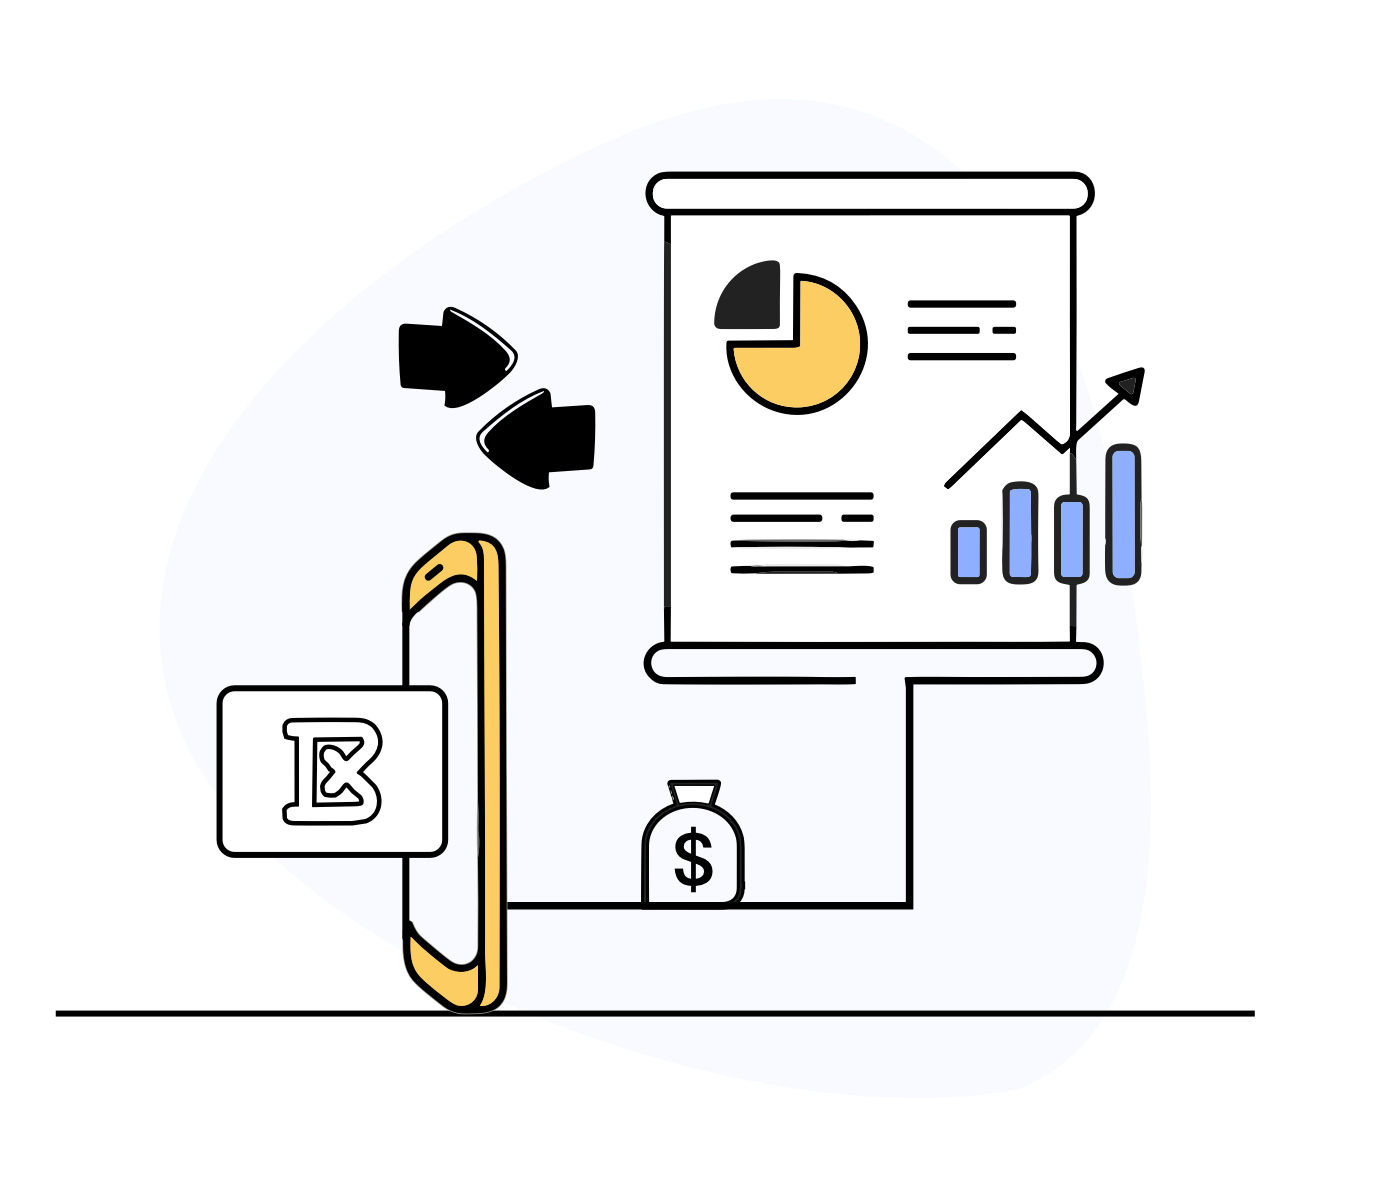
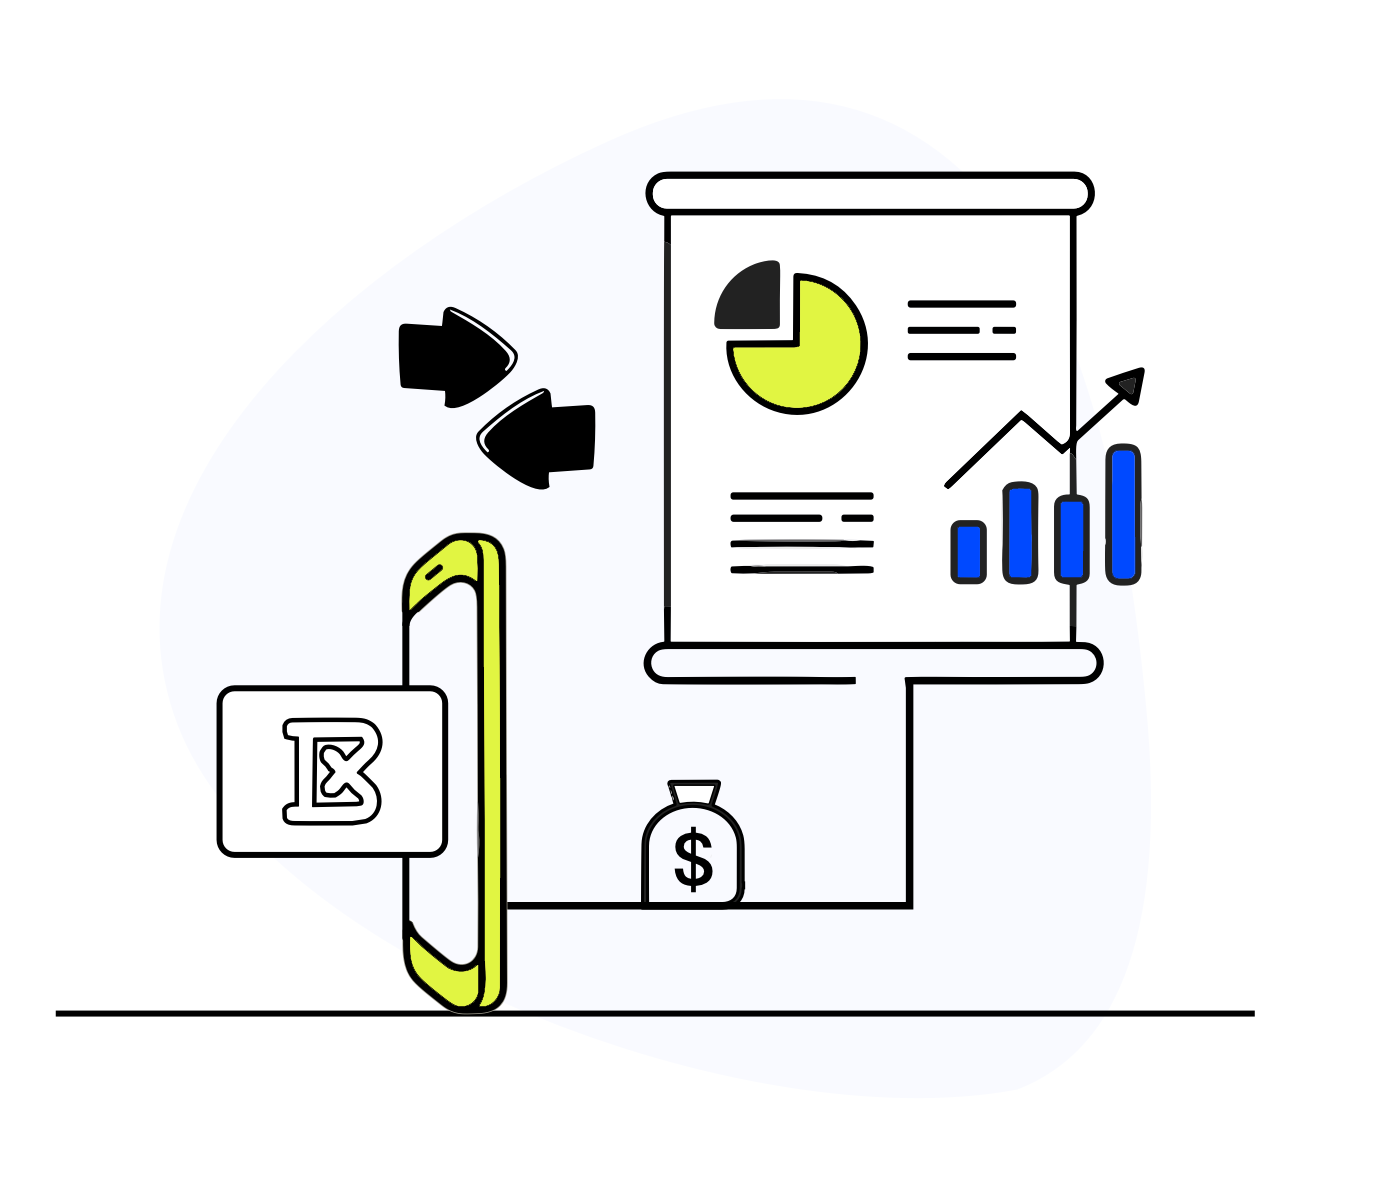
minor update

Changed region(s): [[0.2804, 0.4317, 0.3739, 0.8633], [0.6855, 0.37, 0.8413, 0.4933], [0.5297, 0.2158, 0.6232, 0.3392]]

diff --git a/src/Features.tsx b/src/Features.tsx
@@ -27,14 +27,14 @@ export const Features = () => {
             Swap your tokens with low slippage
           </Text>
           <Text mt={3}>
-            Basex's smart routing, deep liquidity, and latest AMM technology
+            BaseX's smart routing, deep liquidity, and latest AMM technology
             allow you to enjoy low slippage and high return when swapping one
             cryptocurrency for another.
           </Text>
           <Button
             mt={4}
             variant="unstyled"
-            color="blue.500"
+            color="#0049ff"
             _hover={{ color: "gray.800" }}
           >
             Swap Now
@@ -66,7 +66,7 @@ export const Features = () => {
           <Button
             mt={4}
             variant="unstyled"
-            color="blue.500"
+            color="#0049ff"
             _hover={{ color: "gray.800" }}
           >
             Start Staking
@@ -92,7 +92,7 @@ export const Features = () => {
             Liquidity layer for Base chain
           </Text>
           <Text mt={3}>
-            Basex was designed to onboard the next generation of protocols to
+            BaseX was designed to onboard the next generation of protocols to
             the Base chain by opening up a free market for BSX emissions.
             Protocols can bribe veBSX holders or acquire veBSX to redirect
             emissions to their pools, offering a flexible and capital efficient
@@ -101,7 +101,7 @@ export const Features = () => {
           <Button
             mt={4}
             variant="unstyled"
-            color="blue.500"
+            color="#0049ff"
             _hover={{ color: "gray.800" }}
           >
             Get Vote

diff --git a/src/Overview.tsx b/src/Overview.tsx
@@ -2,7 +2,12 @@ import { SimpleGrid, Flex, Text } from "@chakra-ui/react";
 
 export const Overview = () => {
   return (
-    <SimpleGrid columns={{ base: 1, md: 3 }} px={{ base: 4, md: 8, lg: 12 }} gap={6}>
+    <SimpleGrid
+      columns={{ base: 1, md: 3 }}
+      px={{ base: 4, md: 8, lg: 12 }}
+      gap={6}
+     
+    >
       <Flex
         flexDirection="column"
         alignItems="center"
@@ -14,7 +19,7 @@ export const Overview = () => {
         <Text fontWeight="bold" fontSize="3xl">
           $47,566,457
         </Text>
-        <Text color="gray.600">30 Day Volume</Text>
+        <Text>30 Day Volume</Text>
       </Flex>
       <Flex
         flexDirection="column"
@@ -27,7 +32,7 @@ export const Overview = () => {
         <Text fontWeight="bold" fontSize="3xl">
           $3,401,603
         </Text>
-        <Text color="gray.600">Total Value Locked</Text>
+        <Text>Total Value Locked</Text>
       </Flex>
       <Flex
         flexDirection="column"
@@ -41,7 +46,7 @@ export const Overview = () => {
         <Text fontWeight="bold" fontSize="3xl">
           24,176
         </Text>
-        <Text color="gray.600">24h Trades</Text>
+        <Text>24h Trades</Text>
       </Flex>
     </SimpleGrid>
   );

diff --git a/src/Hero.tsx b/src/Hero.tsx
@@ -25,16 +25,16 @@ export const Hero = () => {
       >
         <Text fontSize={{ base: "4xl", md: "5xl" }} fontWeight={500}>
           Making your Swap experience{" "}
-          <Mark bg="#ccd2fd" px={2}>
+          <Mark bg="#0049ff" color="#fff" px={2}>
             Easier
           </Mark>{" "}
           and{" "}
-          <Mark bg="#f4fea2" px={2}>
+          <Mark bg="#e1f542" px={2}>
             Smoother
           </Mark>
         </Text>
         <Text mt={4} fontSize="lg">
-          Basex was designed to onboard the next generation of protocols to the
+          BaseX was designed to onboard the next generation of protocols to the
           Base chain, allow you to enjoy low slippage and high return.
         </Text>
         <JoinButton mt={8} variant="primary" size="lg">

diff --git a/src/App.tsx b/src/App.tsx
@@ -20,13 +20,15 @@ import { Hero } from "./Hero";
 
 export const App = () => (
   <ChakraProvider theme={theme}>
-    <Container maxW="7xl">
-      <Header />
-    </Container>
-    <Container maxW="7xl">
-      <Hero />
-    </Container>
-    <Container maxW="full" mt={10} bg="#f7faff" py={4}>
+    <Box>
+      <Container maxW="7xl">
+        <Header />
+      </Container>
+      <Container maxW="7xl">
+        <Hero />
+      </Container>
+    </Box>
+    <Container maxW="full" bg="#f7faff" py={6}>
       <Container maxW="7xl">
         <Overview />
       </Container>

diff --git a/src/Footer.tsx b/src/Footer.tsx
@@ -11,7 +11,9 @@ export const Footer = () => {
       px={{ base: 4, md: 8, lg: 12 }}
       py={{ base: 6, lg: 8 }}
     >
-      <Text>Copyright &copy; 2023 Basex.fi</Text>
+      <Text>
+        Copyright &copy; 2023 <Link href="https://basex.fi">BaseX.fi</Link>
+      </Text>
       <HStack spacing={6}>
         <Link href="" _hover={{ color: "blackAlpha.600" }}>
           <Icon as={AiFillGithub} boxSize={6} />

diff --git a/src/Header.tsx b/src/Header.tsx
@@ -13,7 +13,7 @@ export const Header = () => {
           <Image src="/logo512.png" alt="logo" w="full" />
         </Box>
         <Text fontWeight="bold" fontSize="3xl" ml={3}>
-          Basex
+          BaseX
         </Text>
       </HStack>
       <HStack spacing={10}>
